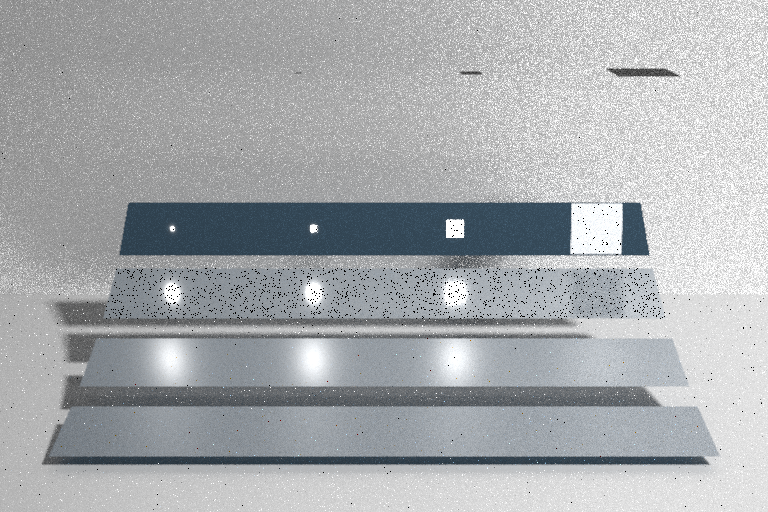
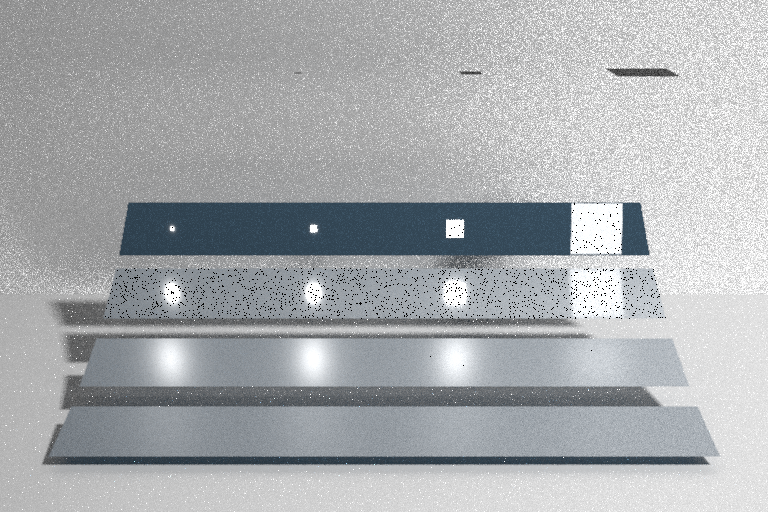
Much better glossy reflections on right most light

Changed region(s): [[0.0, 0.0, 1.0, 0.6562], [0.75, 0.6562, 0.8438, 0.7812], [0.5312, 0.75, 0.5938, 0.7812]]

diff --git a/src/raytracer.cpp b/src/raytracer.cpp
@@ -648,6 +648,7 @@ Intersection FindIntersection(UniformGrid* grid, Scene* scene, Ray& ray, bool is
 				intersection.t,
 				false,
 				hitSphere->brdf,
+				-1,
 				hitSphere->roughness,
 				hitSphere->matTexture != NULL,
 				hitSphere->matTexture
@@ -700,6 +701,7 @@ Intersection FindIntersection(UniformGrid* grid, Scene* scene, Ray& ray, bool is
 					tTriangle,
 					hitTri->isLight,
 					hitTri->brdf,
+					hitTri->lightIndex,
 					hitTri->roughness,
 					false,
 					NULL
@@ -720,6 +722,7 @@ Intersection FindIntersection(UniformGrid* grid, Scene* scene, Ray& ray, bool is
 				tTriangle,
 				hitTri->isLight,
 				hitTri->brdf,
+				hitTri->lightIndex,
 				hitTri->roughness,
 				false,
 				NULL
@@ -743,6 +746,7 @@ Intersection FindIntersection(UniformGrid* grid, Scene* scene, Ray& ray, bool is
 		minDist,
 		false,
 		"phong",
+		-1,
 		0.0f,
 		hitHasTexture,
 		NULL
@@ -1109,7 +1113,7 @@ glm::vec3 PathTracerFindColor(UniformGrid* grid, const Ray& ray, Scene* scene, C
 					float cosLight = std::max(glm::dot(lightNormal, dir), 0.0f);
 					float dist2 = distanceToLight * distanceToLight;
 
-					float pdfNEE = dist2 / (lightArea * cosLight + 1e-6f);					//	pdfNEE /= lights.size();
+					pdfNEE = dist2 / (lightArea * cosLight + 1e-6f);					//	pdfNEE /= lights.size();
 
 					float weight = (pdfNEE * pdfNEE) / (pdfNEE * pdfNEE + pdfBRDF * pdfBRDF + 1e-6f);
 
@@ -1123,7 +1127,7 @@ glm::vec3 PathTracerFindColor(UniformGrid* grid, const Ray& ray, Scene* scene, C
 			}
 
 
-			pdfNEE = 1.0f / lightArea;
+		//	pdfNEE = 1.0f / lightArea;
 
 			directLight += perLight * light->intensity * (lightArea / (float)samples);
 		}
@@ -1237,7 +1241,9 @@ glm::vec3 PathTracerFindColor(UniformGrid* grid, const Ray& ray, Scene* scene, C
 
 				pdf = pdfSpec;
 
-				newThroughput = throughput * (brdf * glm::dot(intersection.hitObjectNormal, wi)) / (pdf + 1e-6f);
+				float cosTheta = std::max(glm::dot(intersection.hitObjectNormal, wi), 0.0f);
+
+				newThroughput = throughput * (brdf * cosTheta) / (pdf + 1e-6f);
 				weight = pSpec / pdf;
 
 
@@ -1274,7 +1280,7 @@ glm::vec3 PathTracerFindColor(UniformGrid* grid, const Ray& ray, Scene* scene, C
 					std::pow(std::max(glm::dot(R, wi), 0.0f), intersection.hitObjectShininess);
 
 				pdf = (cosTheta / (float)M_PI) + (pdfSpec * (1.0f - cosTheta));
-				newThroughput = throughput * (brdf * glm::dot(intersection.hitObjectNormal, wi)) / (pdf + 1e-6f);
+				newThroughput = throughput * (brdf * cosTheta) / (pdf + 1e-6f);
 
 			}
 
@@ -1401,8 +1407,10 @@ glm::vec3 PathTracerFindColor(UniformGrid* grid, const Ray& ray, Scene* scene, C
 					(intersection.hitObjectDiffuse / (float)M_PI);
 				weight = (pDiffuse * (glm::dot(intersection.hitObjectNormal, wi) / (float)M_PI)) / pdf_ggx;
 
+				cosTheta = std::max(glm::dot(intersection.hitObjectNormal, wi), 0.0f);
+
 				pdf = pdf_ggx;
-				newThroughput = throughput * (brdf * glm::dot(intersection.hitObjectNormal, wi)) / (pdf + 1e-6f);
+				newThroughput = throughput * (brdf * cosTheta) / (pdf + 1e-6f);
 
 
 			}
@@ -1501,8 +1509,9 @@ glm::vec3 PathTracerFindColor(UniformGrid* grid, const Ray& ray, Scene* scene, C
 
 
 				pdf = (1 - t) * (glm::dot(intersection.hitObjectNormal, wi) / (float)M_PI) + t * D * (glm::dot(intersection.hitObjectNormal, halfVector)) / (4.0f * glm::dot(halfVector, wi));
+				cosTheta = std::max(glm::dot(intersection.hitObjectNormal, wi), 0.0f);
 
-				newThroughput = throughput * (brdf * glm::dot(intersection.hitObjectNormal, wi)) / (pdf + 1e-6f);
+				newThroughput = throughput * (brdf * cosTheta) / (pdf + 1e-6f);
 
 			}
 
@@ -1590,8 +1599,26 @@ glm::vec3 PathTracerFindColor(UniformGrid* grid, const Ray& ray, Scene* scene, C
 //	accumCol += brdf * std::max(glm::dot(intersection.hitObjectNormal, w_i), 0.0f) * weight;
 	if (useNEE == "mis" && secondaryIntersection.isLight)
 	{
-		float weightBRDF = (pdf * pdf) / (pdf * pdf + pdfNEE * pdfNEE + 1e-6f);
-		return accumCol + newThroughput * secondaryIntersection.hitObjectEmission * weightBRDF;
+		QuadLight* hitLight = scene->GetQuadLights()[secondaryIntersection.lightIndex];
+
+		float lightArea = glm::length(glm::cross(hitLight->ab, hitLight->ac));
+
+		glm::vec3 toLight = secondaryIntersection.intersectionPoint - intersection.intersectionPoint;
+		float dist2 = glm::dot(toLight, toLight);
+		glm::vec3 dir = glm::normalize(toLight);
+
+		glm::vec3 lightNormal = glm::normalize(glm::cross(-hitLight->ab, -hitLight->ac));
+
+		float cosLight = std::max(glm::dot(lightNormal, dir), 0.0f);
+
+		float pdfNEE = dist2 / (lightArea * cosLight + 1e-6f);
+
+		float weightBRDF =
+			(pdf * pdf) / (pdf * pdf + pdfNEE * pdfNEE + 1e-6f);
+
+		return accumCol + newThroughput *
+			secondaryIntersection.hitObjectEmission *
+			weightBRDF;
 
 	}
 
@@ -1955,9 +1982,10 @@ int main() {
 			glm::vec3 v1 = a + ab;
 			glm::vec3 v2 = a + ab + ac;
 			glm::vec3 v3 = a + ac;
+			int lightIndex = scene->GetQuadLights().size();
 			QuadLight* quadLight = new QuadLight(a, ab, ac, intensity);
-			scene->AddTriangle(new Triangle(transformStack.back() * glm::vec4(v0, 1.0f), transformStack.back() * glm::vec4(v1, 1.0f), transformStack.back() * glm::vec4(v2, 1.0f), glm::vec3(0.0f, 0.0f, 0.0f), glm::vec3(0.0f), intensity, shininess, glm::vec3(0.0f), brdf, roughness, true, NULL));
-			scene->AddTriangle(new Triangle(transformStack.back() * glm::vec4(v0, 1.0f), transformStack.back() * glm::vec4(v2, 1.0f), transformStack.back() * glm::vec4(v3, 1.0f), glm::vec3(0.0f, 0.0f, 0.0f), glm::vec3(0.0f), intensity, shininess, glm::vec3(0.0f), brdf, roughness, true, NULL));
+			scene->AddTriangle(new Triangle(transformStack.back() * glm::vec4(v0, 1.0f), transformStack.back() * glm::vec4(v1, 1.0f), transformStack.back() * glm::vec4(v2, 1.0f), glm::vec3(0.0f, 0.0f, 0.0f), glm::vec3(0.0f), intensity, shininess, glm::vec3(0.0f), brdf, roughness, lightIndex, true, NULL));
+			scene->AddTriangle(new Triangle(transformStack.back() * glm::vec4(v0, 1.0f), transformStack.back() * glm::vec4(v2, 1.0f), transformStack.back() * glm::vec4(v3, 1.0f), glm::vec3(0.0f, 0.0f, 0.0f), glm::vec3(0.0f), intensity, shininess, glm::vec3(0.0f), brdf, roughness, lightIndex, true, NULL));
 			scene->AddQuadLight(quadLight);
 		}
 

diff --git a/src/Triangle.h b/src/Triangle.h
@@ -5,7 +5,7 @@
 class Triangle
 {
 public:
-	Triangle(glm::vec3 vertex0, glm::vec3 vertex1, glm::vec3 vertex2, glm::vec3 diffuse, glm::vec3 specular, glm::vec3 emission, float shininess, glm::vec3 ambient, std::string brdf, float roughness, bool isAreaLight = false, texture* matTex = NULL)
+	Triangle(glm::vec3 vertex0, glm::vec3 vertex1, glm::vec3 vertex2, glm::vec3 diffuse, glm::vec3 specular, glm::vec3 emission, float shininess, glm::vec3 ambient, std::string brdf, float roughness, int lightIndex, bool isAreaLight = false, texture* matTex = NULL)
 		:
 		vertex0(vertex0),
 		vertex1(vertex1),
@@ -18,7 +18,8 @@ public:
 		brdf(brdf),
 		roughness(roughness),
 		matTexture(matTex),
-		isLight(isAreaLight)
+		isLight(isAreaLight),
+		lightIndex(lightIndex)
 
 	{
 		normalA = glm::normalize(glm::cross((vertex2 - vertex0), (vertex1 - vertex0)));
@@ -55,4 +56,5 @@ public:
 	bool isLight = false;
 	std::string brdf = "phong";
 	float roughness;
+	int lightIndex = -1;
 };

diff --git a/src/Intersection.h b/src/Intersection.h
@@ -18,6 +18,7 @@ public:
 		float tHit,
 		bool isAreaLight,
 		std::string brdf,
+		int lightIndex = -1,
 		float hitObjectRoughness = 0.0f,
 		bool hitHasTexture = false,
 		texture* hitObjectTexture = nullptr,
@@ -40,7 +41,8 @@ public:
 		hitObjectRoughness(hitObjectRoughness),
 		hitHasTexture(hitHasTexture),
 		hitObjectTexture(hitObjectTexture),
-		isShadowRay(isShadowRay)
+		isShadowRay(isShadowRay),
+		lightIndex(lightIndex)
 	{
 	}
 
@@ -76,4 +78,5 @@ public:
 	bool isShadowRay = false;
 	std::string brdf = "phong";
 	float hitObjectRoughness = 0.0f;
+	int lightIndex = -1;
 };
